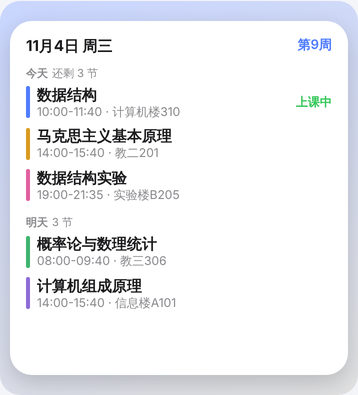
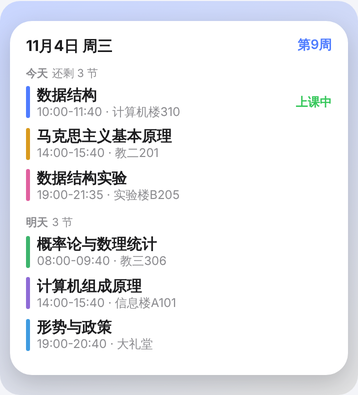
小组件：可选大号默认显示整周、今日+整周两个大号的配法、小号字号修复、更新 README (#7)
* Add course schedule PWA with 教务 import and Scriptable widget export

- Static, dependency-free PWA: today view (current week, live/next class),
  week grid with swipe navigation, course editor, configurable periods
- Import: bookmarklet that runs on the logged-in 教务 page (正方 API,
  正方/强智 DOM, generic tables), WakeUp .wakeup_schedule files, CSV,
  JSON backups, share links, saved HTML
- Export: Scriptable widget script (small/medium/large/week/lock screen)
  with in-app preview, share link, ICS, JSON, CSV
- Widget tap opens the web app with a compressed schedule snapshot in the
  URL so Safari shows the full timetable despite separate storage
- Offline support via service worker; unit and e2e tests; README

Claude-Session: https://claude.ai/code/session_01QzwRXaLayM4epH9rmmJHjr

* Add GitHub Actions workflow: tests and GitHub Pages deploy

Runs unit + Playwright e2e tests on every push/PR; on main, deploys the
static site files to GitHub Pages.

Claude-Session: https://claude.ai/code/session_01QzwRXaLayM4epH9rmmJHjr

* Fix review findings: share-link overwrite, grid overlaps, CSV/ICS weeks, SW cache cleanup

- Give each timetable a stable id; a share link for a different timetable now
  opens the import confirmation instead of silently replacing local data, while
  widget links for the same timetable still sync newer versions
- Week grid: overlapping courses form one block spanning all of them (including
[…]

Changed region(s): [[0.0615, 0.7899, 0.3073, 0.881], [0.338, 0.8506, 0.4302, 0.9114]]

diff --git a/scriptable/widget.js b/scriptable/widget.js
@@ -18,6 +18,8 @@
 
 const APP_URL = /*@APP_URL*/"";
 const OPEN_PAGE = /*@PAGE*/"today";
+// 大号组件默认显示什么："today" 今日课程 / "week" 整周课表（单个组件可用 Parameter 覆盖）
+const LARGE_MODE = /*@LARGE*/"today";
 const GENERATED_AT = /*@GENERATED*/"";
 const SNAPSHOT = /*@SNAPSHOT*/"";
 const DATA = /*@DATA*/null;
@@ -232,12 +234,18 @@ function buildSmall(w) {
     sectionLabel(w, focus.label);
     w.addSpacer(4);
   }
-  // 课程之间用弹性间距均匀铺开，避免空白都堆在底部
+  // 课程之间均匀留白，避免空白都堆在底部。
+  // 注意不要用多个弹性 spacer：iOS 会和可缩放的文字抢高度，把第二节课的课名莫名缩小。
+  // 所以按组件高度算出固定间距，只在最后保留一个弹性 spacer。
   const shown = focus.lessons.slice(0, 2);
+  const ROW = 38; // 中文字体行高比字号大，按实际渲染高度估算
+  const used = 14 + 12 + 18 + 8 + (focus.offset !== 0 ? 17 : 0) + shown.length * ROW + 15;
+  const gap = Math.max(6, Math.min(18, Math.floor((smallWidgetSize() - used) / shown.length)));
   shown.forEach((l, i) => {
-    if (i) w.addSpacer();
+    if (i) w.addSpacer(gap);
     lessonRow(w, l, { height: 34, nameSize: 15, metaSize: 12, compact: true });
   });
+  w.addSpacer(gap);
   w.addSpacer();
   const foot = hRow(w);
   if (focus.offset === 0 && current) {
@@ -314,6 +322,18 @@ function largeWidgetSize() {
   if (h >= 844) return { w: 338, h: 354 }; // 标准尺寸
   if (h >= 812) return { w: 329, h: 345 };
   return { w: 321, h: 324 };                // SE 等小屏
+}
+
+// 小号组件的高度（pt），同样按屏幕高度对照 Apple 公布的尺寸保守估算
+function smallWidgetSize() {
+  let h = 844;
+  try { h = Device.screenSize().height; } catch (e) { /* 预览环境 */ }
+  if (h >= 926) return 170;
+  if (h >= 896) return 169;
+  if (h >= 874) return 162;
+  if (h >= 844) return 158;
+  if (h >= 812) return 155;
+  return 148;
 }
 
 function buildLarge(w) {
@@ -550,7 +570,11 @@ async function createWidget(family, param) {
   const w = new ListWidget();
   const accessory = String(family).startsWith("accessory");
   if (!accessory) w.backgroundColor = THEME.background;
-  const page = PARAM === "week" ? "week" : OPEN_PAGE;
+  const isLarge = family === "large" || family === "extraLarge";
+  // Parameter 优先：week/周 → 整周；today/今天 → 今日；否则用导出时选的默认值
+  const weekMode = isLarge && (PARAM === "week" || PARAM === "周" ||
+    (LARGE_MODE === "week" && !["today", "今天", "tomorrow", "明天"].includes(PARAM)));
+  const page = weekMode ? "week" : OPEN_PAGE;
   if (APP_URL) w.url = `${APP_URL}#/${page}` + (SNAPSHOT ? `?s=${SNAPSHOT}` : "");
   w.refreshAfterDate = nextRefresh();
   if (!DATA) {
@@ -561,7 +585,7 @@ async function createWidget(family, param) {
     case "small": buildSmall(w); break;
     case "large":
     case "extraLarge":
-      if (PARAM === "week" || PARAM === "周") buildWeek(w); else buildLarge(w);
+      if (weekMode) buildWeek(w); else buildLarge(w);
       break;
     case "accessoryRectangular": buildRectangular(w); break;
     case "accessoryInline": buildInline(w); break;
@@ -587,6 +611,9 @@ if (config.runsInWidget) {
     Safari.open(`${APP_URL}#/${OPEN_PAGE}` + (SNAPSHOT ? `?s=${SNAPSHOT}` : ""));
   } else if (choice === "week") {
     const w = await createWidget("large", "week");
+    await w.presentLarge();
+  } else if (choice === "large") {
+    const w = await createWidget("large", "today");
     await w.presentLarge();
   } else if (choice) {
     const w = await createWidget(choice);

diff --git a/js/sheets/widget.js b/js/sheets/widget.js
@@ -35,6 +35,15 @@ export function openWidgetSheet() {
     h('option', { value: 'today', selected: app.prefs.widgetPage === 'today' }, '今日课程'),
     h('option', { value: 'week', selected: app.prefs.widgetPage === 'week' }, '本周课表')
   );
+  const largeSel = h('select', { class: 'input inline' },
+    h('option', { value: 'today', selected: app.prefs.widgetLarge !== 'week' }, '今日课程'),
+    h('option', { value: 'week', selected: app.prefs.widgetLarge === 'week' }, '整周课表')
+  );
+  largeSel.addEventListener('change', async () => {
+    app.prefs.widgetLarge = largeSel.value;
+    savePrefs(app.prefs);
+    await generate();
+  });
   pageSel.addEventListener('change', async () => {
     app.prefs.widgetPage = pageSel.value;
     savePrefs(app.prefs);
@@ -78,7 +87,7 @@ export function openWidgetSheet() {
   async function generate() {
     try {
       const tpl = await loadTemplate();
-      script = await buildWidgetScript(tpl, app.data, { appUrl: app.baseUrl, page: app.prefs.widgetPage });
+      script = await buildWidgetScript(tpl, app.data, { appUrl: app.baseUrl, page: app.prefs.widgetPage, largeMode: app.prefs.widgetLarge });
       codeBox.value = script;
       copyBtn.disabled = false;
       await preview();
@@ -106,6 +115,7 @@ export function openWidgetSheet() {
       stage,
       h('div', { class: 'row-actions center' }, darkBtn),
       h('label', { class: 'field inline-field' }, h('span', null, '点击小组件打开'), pageSel),
+      h('label', { class: 'field inline-field' }, h('span', null, '大号组件默认显示'), largeSel),
       copyBtn,
       h('button', { class: 'btn block', onclick: () => script && download('课表小组件.js', script, 'text/javascript') }, '下载 .js 文件'),
       h('section', { class: 'card' },
@@ -114,7 +124,8 @@ export function openWidgetSheet() {
           h('li', null, '在 App Store 安装免费的 ', h('a', { href: 'https://apps.apple.com/app/scriptable/id1405459188', target: '_blank', rel: 'noopener' }, 'Scriptable'), '。'),
           h('li', null, '点上面的「复制 Scriptable 脚本」，打开 Scriptable，点右上角 ＋ 新建脚本，粘贴，点左上角 Done 保存（可以点标题改名为「课表」）。'),
           h('li', null, '回到桌面，长按空白处 → 左上角 ＋ → 搜索 Scriptable → 选择小/中/大号组件添加。'),
-          h('li', null, '长按刚添加的组件 →「编辑小组件」→ Script 选择刚才的脚本。大号组件的 Parameter 填 ', h('code', null, 'week'), ' 可显示整周课表，填 ', h('code', null, 'tomorrow'), ' 显示明天。锁屏组件同理。'),
+          h('li', null, '长按刚添加的组件 →「编辑小组件」→ Script 选择刚才的脚本。锁屏组件同理（圆形显示周数，长条显示下一节课）。'),
+          h('li', null, h('b', null, '同时要「今日」和「整周」？'), '不用新建脚本：在桌面添加两个大号 Scriptable 组件，都选这个脚本，其中一个的 Parameter 填 ', h('code', null, 'week'), '，它就显示整周课表。Parameter 填 ', h('code', null, 'today'), ' 强制显示今日课程，填 ', h('code', null, 'tomorrow'), ' 显示明天。'),
           h('li', null, '点击小组件会用 Safari 打开本应用并自动带上课表数据（iOS 限制：网页无法直接唤起已添加到主屏幕的 Web App）。')
         ),
         h('p', { class: 'muted small' }, '⚠ 小组件里的课表是导出那一刻的副本。修改课表后，需要重新复制脚本、在 Scriptable 中覆盖原内容。')

diff --git a/tests/exporters.test.js b/tests/exporters.test.js
@@ -148,3 +148,26 @@ test('大号组件按屏幕大小放满课程（大屏多显示明天的课）',
   assert.ok(big > normal || big === 3, `大屏应比标准屏显示更多，实际 ${big} vs ${normal}`);
   assert.ok(small <= normal);
 });
+
+test('大号组件默认显示整周；Parameter 可以覆盖', async () => {
+  const weekScript = await buildWidgetScript(template, data, { appUrl: 'https://example.github.io/course/', largeMode: 'week' });
+  const run = async (code, parameter) => {
+    const { widget } = await runWidgetScript(code, { family: 'large', parameter, now: new Date('2026-11-04T10:20:00') });
+    return { text: widgetText(widget), url: widget.url };
+  };
+  let r = await run(weekScript, '');
+  assert.match(r.text, /11\/2 - 11\/8/, '默认应为整周视图');
+  assert.match(r.url, /#\/week\?/);
+  r = await run(weekScript, 'today');
+  assert.match(r.text, /还剩 3 节/, 'Parameter today 应显示今日课程');
+  r = await run(script, 'week');
+  assert.match(r.text, /11\/2 - 11\/8/, '默认今日的脚本，Parameter week 仍显示整周');
+  r = await run(script, '');
+  assert.ok(!/11\/2 - 11\/8/.test(r.text));
+});
+
+test('小号组件只用一个弹性 spacer（多个会让 iOS 缩小第二节课的课名）', async () => {
+  const { widget } = await runWidgetScript(script, { family: 'small', now: new Date('2026-11-04T08:20:00'), screen: [440, 956] });
+  const flexible = widget.children.filter((c) => c.type === 'spacer' && c.length == null).length;
+  assert.equal(flexible, 1);
+});

diff --git a/js/exporters.js b/js/exporters.js
@@ -143,7 +143,7 @@ export function widgetData(data) {
  * 根据模板（scriptable/widget.js）生成 Scriptable 脚本
  * @param {string} template 模板源码
  */
-export async function buildWidgetScript(template, data, { appUrl, page = 'today', withSnapshot = true } = {}) {
+export async function buildWidgetScript(template, data, { appUrl, page = 'today', largeMode = 'today', withSnapshot = true } = {}) {
   const snapshot = withSnapshot ? await encodeData(snapshotOf(data)) : '';
   const now = new Date();
   const generated = `${formatDate(now)} ${String(now.getHours()).padStart(2, '0')}:${String(now.getMinutes()).padStart(2, '0')}`;
@@ -156,6 +156,7 @@ export async function buildWidgetScript(template, data, { appUrl, page = 'today'
   let out = template;
   out = replace(out, 'APP_URL', JSON.stringify(appUrl || ''));
   out = replace(out, 'PAGE', JSON.stringify(page));
+  out = replace(out, 'LARGE', JSON.stringify(largeMode === 'week' ? 'week' : 'today'));
   out = replace(out, 'GENERATED', JSON.stringify(generated));
   out = replace(out, 'SNAPSHOT', JSON.stringify(snapshot));
   out = replace(out, 'DATA', json);

diff --git a/js/store.js b/js/store.js
@@ -130,9 +130,9 @@ export function save(data, { touch = true } = {}) {
 
 export function loadPrefs() {
   try {
-    return { widgetPage: 'today', ...(JSON.parse(localStorage.getItem(PREFS_KEY)) || {}) };
+    return { widgetPage: 'today', widgetLarge: 'today', ...(JSON.parse(localStorage.getItem(PREFS_KEY)) || {}) };
   } catch (e) {
-    return { widgetPage: 'today' };
+    return { widgetPage: 'today', widgetLarge: 'today' };
   }
 }
 

diff --git a/README.md b/README.md
@@ -88,14 +88,27 @@ WakeUp → 右上角菜单 →「导出」→「导出为 WakeUp 课程表文件
 2. 课表 App →「设置」→「iOS 桌面小组件」，预览各个尺寸的效果，点「复制 Scriptable 脚本」
 3. 打开 Scriptable → 右上角 `+` 新建脚本 → 粘贴 → 保存（可以把脚本名改成「课表」）
 4. 桌面长按 → 添加小组件 → Scriptable → 选尺寸；长按小组件 →「编辑小组件」→ **Script** 选择刚才的脚本
-5. 可选的 **Parameter**：
-   - `week`：大号组件显示整周课表
-   - `tomorrow`：显示明天的课程
 
-锁屏组件的添加方法相同（iOS 16+）。
+| 尺寸 | 显示内容 |
+| --- | --- |
+| 小号 | 接下来的两节课 |
+| 中号 | 日期、周数，以及接下来的三节课（今天上完后显示明天的） |
+| 大号 | 今天还没上的课 + 明天的课，按屏幕大小尽量排满；或者整周课表 |
+| 锁屏 · 圆形 | 当前第几周 |
+| 锁屏 · 长条 | 下一节课的课程名、时间和教室（仿系统「日历」样式） |
+| 锁屏 · 单行（时间上方） | 下一节课的时间、课程名、教室 |
 
-- 小组件会在每节课开始和结束时自动刷新（具体刷新时间由 iOS 决定，可能有几分钟误差）
-- **小组件里的课表是导出那一刻的副本。** 修改课表后，需要重新复制脚本，在 Scriptable 里覆盖原内容
+已经上完的课会自动隐藏。小组件会在每节课开始和结束时自动刷新，具体时间由 iOS 决定，可能差几分钟。
+
+**同时要「今日」和「整周」两个大号组件？** 不用新建脚本。在桌面添加两个大号 Scriptable 组件，都选同一个脚本，其中一个的 **Parameter** 填 `week` 即可。Scriptable 目前不支持最大的那一档尺寸，所以整周课表放在大号里。也可以在导出页把「大号组件默认显示」改成「整周课表」，这样不填 Parameter 就是整周。
+
+Parameter 可选值：
+
+- `week`：大号显示整周课表
+- `today`：大号显示今日课程（导出时默认选了整周也能用它切回来）
+- `tomorrow`：显示明天的课程
+
+> **小组件里的课表是导出那一刻的副本。** 修改课表后，需要重新复制脚本，在 Scriptable 里覆盖原内容。桌面上已经添加的小组件不用删，会自动用上新脚本。
 
 #### 点击小组件会打开 Safari
 
